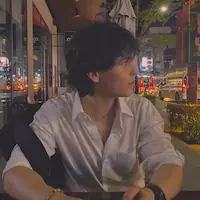
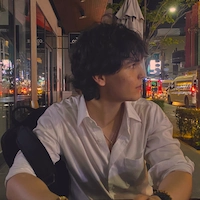
Events and partners (#1)
* Add partners and chairs

* Update deploy.yml

* Add more past events

diff --git a/frontend/src/pages/events/events.data.ts b/frontend/src/pages/events/events.data.ts
@@ -56,6 +56,24 @@ export const UPCOMING_EVENTS: EVPEvent[] = [
 
 export const PAST_EVENTS: EVPEvent[] = [
 	{
+		id: 'sov-ai-launch-2026',
+		title: 'SOV AI Launch at STAC',
+		date: 'Thursday, 21 May, 2026',
+		location: 'STAC The Beyond',
+		description:
+			"An invitation to the launch of SOV AI at STAC The Beyond, featuring a speech from the SOV AI team, an overview of STAC's offerings, and guest speaker Jim Rowan (former CEO of Volvo and Dyson).",
+		spotStatus: 'past',
+	},
+	{
+		id: 'eden-campus-visit-2026',
+		title: 'Eden Campus Visit',
+		date: 'Tuesday, 14 April, 2026',
+		location: 'Eden Campus, University of St Andrews',
+		description:
+			"A visit to Eden Campus - part of the University of St Andrews' innovation ecosystem with a focus on low-carbon innovation. The campus offers equipment and facilities (including a Rapid Prototyping Centre) that help startups ship their MVP faster, and is a hub for startups working on environmental causes.",
+		spotStatus: 'past',
+	},
+	{
 		id: 'demo-day-2026',
 		title: 'Demo Day',
 		date: 'Friday, 27 March, 2026',
@@ -81,9 +99,41 @@ export const PAST_EVENTS: EVPEvent[] = [
 		highlights: [
 			'Three Critical Themes: Teams designed cutting-edge solutions for fraud detection, ethical banking & financial inclusion, and AI-powered customer experiences.',
 			'Industry Mentorship & Networking: Students received direct guidance from NatWest and Google Cloud experts, accelerating their ideas from brainstorming to rapid prototyping.',
-			'Exclusive Rewards: Top teams won tech goodies and secured exclusive invitations to an upcoming corporate Insight Event at NatWest Group’s Edinburgh headquarters.',
+			"Exclusive Rewards: Top teams won tech goodies and secured exclusive invitations to an upcoming corporate Insight Event at NatWest Group's Edinburgh headquarters.",
 		],
 		image: nextGenHack2026Img,
+		spotStatus: 'past',
+	},
+	{
+		id: 'apollo-fireside-march-2026',
+		title: 'Fireside Chat: Angel Investing & VC Portfolio Construction',
+		date: 'Wednesday, 18 March, 2026',
+		description:
+			'A fireside chat with Michiel Smith and Andrew Coleman from Apollo Informal Investments, Hannah Dent from Old College Capital, and Aidan Brennan on angel investing and venture capital portfolio construction.',
+		spotStatus: 'past',
+	},
+	{
+		id: 'apollo-quarterly-meeting-2026',
+		title: 'Apollo Informal Investments Quarterly Meeting',
+		date: 'Monday, 2 March, 2026',
+		description:
+			"An opportunity to be part of Apollo Informal Investments' quarterly meeting, where they vote on which startups to invest in.",
+		spotStatus: 'past',
+	},
+	{
+		id: 'apollo-fireside-february-2026',
+		title: 'Fireside Chat with Andrew Coleman',
+		date: 'Thursday, 12 February, 2026',
+		description:
+			"A fireside chat with Andrew Coleman, Director of Apollo Informal Investments and Honorary Chair of EVP. Discussions and Q&A on the UK's pre-seed & seed startups, Andrew’s investment philosophy, past experiences, and more.",
+		spotStatus: 'past',
+	},
+	{
+		id: 'vc-roleplay-2026',
+		title: 'Startup Pitch Roleplay',
+		date: 'Friday, 6 February, 2026',
+		description:
+			'Three startups rotated roles - one pitching, one questioning, and one acting as a VC deciding whether to invest. Angels from Apollo Informal Investments and Archangels joined.',
 		spotStatus: 'past',
 	},
 ];

diff --git a/frontend/src/pages/about/about.data.ts b/frontend/src/pages/about/about.data.ts
@@ -1,4 +1,5 @@
-// 2026/2027
+import aliImg from '@assets/about/pictures/ali.webp';
+import andrewImg from '@assets/about/pictures/andrew.webp';
 import arielImg from '@assets/about/pictures/ariel.webp';
 import christopherImg from '@assets/about/pictures/christopher.webp';
 import freddieImg from '@assets/about/pictures/freddie.webp';
@@ -11,7 +12,6 @@ import roryImg from '@assets/about/pictures/rory.webp';
 import teohImg from '@assets/about/pictures/teoh.webp';
 import tobiImg from '@assets/about/pictures/tobi.webp';
 import xavierImg from '@assets/about/pictures/xavier.webp';
-// 2025/2026
 import zachariasImg from '@assets/about/pictures/zacharias.webp';
 
 export type Member = {
@@ -34,7 +34,7 @@ export const COMMITTEE_DATA: YearData[] = [
 		members: [
 			{
 				role: 'President',
-				name: 'Teoh Yi Zang',
+				name: 'Teoh Zi Yang',
 				image: teohImg,
 				linkedin: 'https://www.linkedin.com/in/teoh-zi-yang/',
 			},
@@ -74,6 +74,18 @@ export const COMMITTEE_DATA: YearData[] = [
 				name: 'Matisse Afnan',
 				image: matisseImg,
 				linkedin: 'https://www.linkedin.com/in/matisseafnan/',
+			},
+			{
+				role: 'Honorary Chair',
+				name: 'Zacharias Onyejiaka',
+				image: zachariasImg,
+				linkedin: 'https://www.linkedin.com/in/zacharias-onyejiaka-405940307/',
+			},
+			{
+				role: 'Honorary Chair',
+				name: 'Ali Khan',
+				image: aliImg,
+				linkedin: 'https://www.linkedin.com/in/ali-khan-55a0b8141/',
 			},
 		],
 	},
@@ -133,6 +145,12 @@ export const COMMITTEE_DATA: YearData[] = [
 				name: 'Tobi Fatona',
 				image: tobiImg,
 				linkedin: 'https://www.linkedin.com/in/tobi-fatona/',
+			},
+			{
+				role: 'Honorary Chair',
+				name: 'Andrew Coleman',
+				image: andrewImg,
+				linkedin: 'https://www.linkedin.com/in/aacoleman/',
 			},
 		],
 	},

diff --git a/frontend/src/pages/startups/PartnerBlock.tsx b/frontend/src/pages/startups/PartnerBlock.tsx
@@ -1,0 +1,42 @@
+import { motion } from 'framer-motion';
+
+import { type Partner } from './partners.data';
+
+interface PartnerBlockProps {
+	partner: Partner;
+	index: number;
+}
+
+export function PartnerBlock({ partner, index }: PartnerBlockProps) {
+	const { name, img } = partner;
+
+	return (
+		<motion.div
+			initial={{ opacity: 0, y: 24 }}
+			whileInView={{ opacity: 1, y: 0 }}
+			viewport={{ once: true, margin: '-60px' }}
+			transition={{ duration: 0.5, ease: 'easeOut', delay: (index % 9) * 0.08 }}
+			className="group relative flex h-60 w-full flex-col items-center justify-center gap-5 md:w-1/3"
+		>
+			{/* Ambient glow behind the logo */}
+			<div className="from-accent/25 absolute top-1/2 left-1/2 -z-10 h-40 w-40 -translate-x-1/2 translate-y-[-70%] rounded-full bg-radial to-transparent opacity-0 blur-2xl transition-opacity duration-500 group-hover:opacity-100" />
+
+			{/* Logo */}
+			{img && (
+				<img
+					src={img}
+					alt={`${name} logo`}
+					className="h-24 max-w-[80%] object-contain drop-shadow-lg transition-all duration-500 will-change-transform group-hover:-translate-y-2 group-hover:scale-110 group-hover:drop-shadow-2xl"
+				/>
+			)}
+
+			{/* Name with accent flourish */}
+			<div className="flex flex-col items-center gap-2 text-center">
+				<h2 className="font-title text-shadow-3xl text-3xl leading-tight font-bold lg:text-4xl">
+					{name}
+				</h2>
+				<div className="bg-accent h-1 w-15 rounded-full transition-all duration-500 group-hover:w-30" />
+			</div>
+		</motion.div>
+	);
+}

diff --git a/frontend/src/pages/startups/StartupsPage.tsx b/frontend/src/pages/startups/StartupsPage.tsx
@@ -3,6 +3,7 @@ import { InteractiveContactButton, PageMeta, RadialGlowOverlay, UnderlinedTitle 
 import { motion } from 'framer-motion';
 import { useMemo } from 'react';
 
+import { PartnersSection } from './PartnersSection';
 import { StartupBlock } from './StartupBlock';
 import { STARTUPS } from './startups.data';
 import { generateColumns } from './startups.layout';
@@ -13,8 +14,8 @@ export function StartupsPage() {
 	return (
 		<div className="w-full overflow-hidden">
 			<PageMeta
-				title="Our Start-ups"
-				description="Learn about the start-ups EVP has worked with."
+				title="Start-ups"
+				description="Learn about the partners & start-ups EVP has worked with."
 			/>
 			{/* Hero */}
 			<div className="relative flex min-h-180 w-full items-center justify-center">
@@ -52,12 +53,14 @@ export function StartupsPage() {
 				</div>
 			</div>
 
+			<PartnersSection />
+
 			<div className="mx-auto mt-10 flex w-full flex-col gap-12 py-40">
 				<motion.div
-					initial={{ opacity: 0, y: -50 }}
+					initial={{ opacity: 0, y: -10 }}
 					whileInView={{ opacity: 1, y: 0 }}
 					viewport={{ once: true, amount: 0.8 }}
-					transition={{ duration: 0.5, ease: 'easeIn', delay: 0.5 }}
+					transition={{ duration: 0.5, ease: 'easeIn' }}
 					className="max-w-3xl text-center text-5xl md:mx-auto"
 				>
 					<UnderlinedTitle

diff --git a/frontend/src/pages/startups/PartnersSection.tsx b/frontend/src/pages/startups/PartnersSection.tsx
@@ -1,0 +1,36 @@
+import { UnderlinedTitle } from '@common';
+import { motion } from 'framer-motion';
+
+import { PartnerBlock } from './PartnerBlock';
+import { PARTNERS } from './partners.data';
+
+export function PartnersSection() {
+	return (
+		<section className="mx-auto mt-10 flex w-full flex-col gap-12 pt-30">
+			<motion.div
+				initial={{ opacity: 0, y: -50 }}
+				whileInView={{ opacity: 1, y: 0 }}
+				viewport={{ once: true, amount: 1 }}
+				transition={{ duration: 0.5, ease: 'easeIn', delay: 0.5 }}
+				className="max-w-4xl text-center text-5xl md:mx-auto"
+			>
+				<UnderlinedTitle
+					id="our-partners"
+					navLabel="our partners"
+					title="powered by our partners."
+					size="text-5xl"
+					level={2}
+				/>
+			</motion.div>
+
+			{/* Partner blocks in frosted glass container */}
+			<div className="glass-box mx-auto w-full">
+				<div className="mx-auto flex w-full max-w-5xl flex-wrap justify-center gap-x-6 gap-y-16 px-4 py-24">
+					{PARTNERS.map((partner, index) => (
+						<PartnerBlock key={partner.id} partner={partner} index={index} />
+					))}
+				</div>
+			</div>
+		</section>
+	);
+}

diff --git a/frontend/src/pages/startups/partners.data.ts b/frontend/src/pages/startups/partners.data.ts
@@ -1,0 +1,33 @@
+import apolloImg from '@assets/startups/partner-icons/apollo.webp';
+import googleCloudImg from '@assets/startups/partner-icons/google-cloud.webp';
+import natwestImg from '@assets/startups/partner-icons/natwest.webp';
+import youngEdgeImg from '@assets/startups/partner-icons/young-edge.webp';
+
+export interface Partner {
+	id: string;
+	name: string;
+	img: string;
+}
+
+export const PARTNERS: Partner[] = [
+	{
+		id: 'young-edge',
+		name: 'Young EDGE',
+		img: youngEdgeImg,
+	},
+	{
+		id: 'google-cloud',
+		name: 'Google Cloud',
+		img: googleCloudImg,
+	},
+	{
+		id: 'natwest',
+		name: 'NatWest',
+		img: natwestImg,
+	},
+	{
+		id: 'apollo-informal-investments',
+		name: 'Apollo Informal Investments',
+		img: apolloImg,
+	},
+];

diff --git a/docs/todo.md b/docs/todo.md
@@ -1,3 +1,34 @@
+# TODO — PLAN: Partners Section on Startups Page
+
+**Status:** ✅ Done
+
+## Goal
+
+Add a **Partners** section to the Startups page (`frontend/src/pages/startups/`), placed **before** the startups section (i.e. before the heading text "meet the student-led ventures we've worked with").
+
+## Requirements
+
+1. **Placement**: Render directly above the existing startups section in `StartupsPage.tsx`.
+2. **Opening title**: A heading in the vibe of "EVP maintains exclusive partnerships to offer our startups the best" (wording can be refined, not verbatim).
+3. **Data file**: Create `frontend/src/pages/startups/partners.data.ts` (co-located with any existing startups data file, mirroring its conventions) exporting a typed list of partners.
+4. **Partner shape**: Each partner has exactly:
+   - `id: string`
+   - `name: string`
+   - `img: string` (logo — imported asset or path in `shared/assets`, matching how startup logos are handled)
+5. **Dummy data**: Add a few placeholder partners for now; the file must be trivially expandable later.
+6. **Styling**: Match the existing startups section style — same layout patterns, Tailwind classes, typography, spacing, and (if present) logo-grid/card treatment used for startups. Reuse shared UI primitives if the startups section uses them.
+
+## Steps (when executing)
+
+- [x] Read `frontend/src/pages/startups/` to find the page component and existing data file (e.g. `startups.data.ts`) and copy its conventions.
+- [x] Create `partners.data.ts` with a `Partner` type and dummy entries (name + logo image).
+- [x] Add partner logo assets to `shared/assets` (or reuse placeholder logos if available).
+- [x] Build the Partners section component with heading + logo grid, styled to match the startups section.
+- [x] Insert it into the Startups page above the startups section.
+- [x] Run `npm run lint` and `npm run build` in `frontend/` to verify.
+
+---
+
 # TODO — Fix CI/CD Pipeline
 
 **Priority:** High — deployments on push to `main` are currently failing.
@@ -56,3 +87,9 @@
 - [ ] Add `docker/setup-buildx-action` + registry layer caching (`cache-from`/`cache-to: type=gha`) to speed up builds.
 - [ ] Add per-commit SHA tags in addition to `latest` for rollback capability.
 - [ ] Add a CI job running frontend lint/build and backend tests on PRs.
+
+## Known Gotchas
+
+- **`docker-compose up -d` fails with `CNI network "evp-website_default" not found`**
+  - Podman on Tardis generates CNI conflist with `cniVersion: 1.0.0` but `docker-compose` v1 expects `0.4.0`.
+  - Fix: `~/.config/cni/net.d/<project-name>.conflist` → change `"cniVersion": "1.0.0"` to `"0.4.0"`.

diff --git a/AGENTS.md b/AGENTS.md
@@ -109,3 +109,15 @@ npm run format     # Prettier
 - **Env vars**: backend reads from `backend/.env` (python-decouple). Never commit `.env`.
 - **Static files**: backend `collectstatic` output goes to the shared `django_static` Docker volume; Nginx serves it — don't change the volume wiring without updating both `docker-compose.yml` and `frontend/nginx.conf`.
 - Don't edit `backend/staticfiles/` (generated artifacts).
+
+## Common Gotchas & Fixes
+
+### Production / CI/CD
+
+- **`docker-compose up -d` fails with `CNI network "evp-website_default" not found`**
+  - Cause: Podman on Tardis uses CNI with `cniVersion: 1.0.0` in the conflist, but `docker-compose` v1 expects `0.4.0`.
+  - Fix: Edit `~/.config/cni/net.d/<compose-project-name>.conflist` and change `"cniVersion": "1.0.0"` → `"0.4.0"`, then re-run `docker-compose up -d`.
+  - The compose project name is typically the directory name — e.g. `evp-website_default.conflist`.
+
+- **SSH deploy works but `docker-compose` fails with `PermissionError(13, 'Permission denied')`**
+  - The server uses Podman rootless (no `/var/run/docker.sock`). The deploy script must set `DOCKER_HOST=unix://$XDG_RUNTIME_DIR/podman/podman.sock` and `DOCKER_CONFIG=$XDG_RUNTIME_DIR/containers`.
